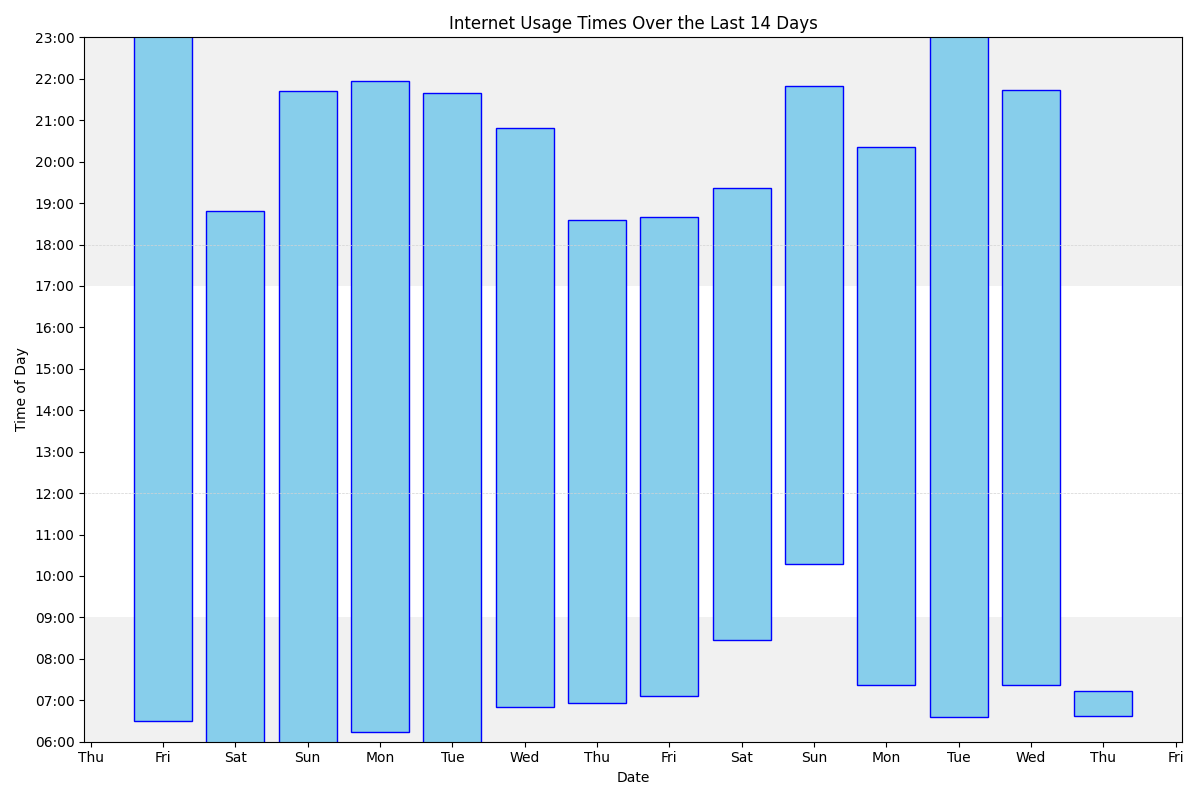
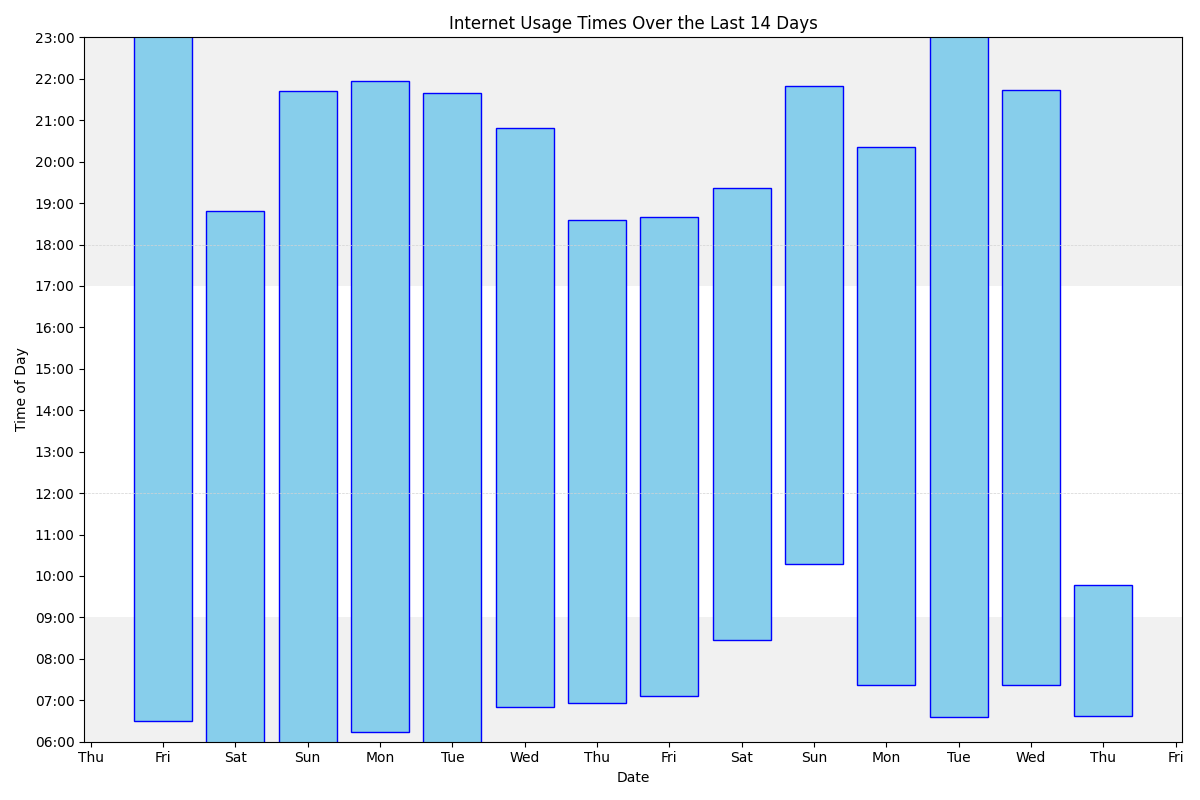
Update

Changed region(s): [[0.8942, 0.7188, 0.9558, 0.875]]

diff --git a/index.md b/index.md
@@ -68,7 +68,7 @@ ul>li::after {
 <h3> Most common sites</h3>
 With number of accesses/minutes in parentheses
 
-<ol><li>www.google.com (3014)</li>
+<ol><li>www.google.com (3015)</li>
 <li>outlook.office.com (2575)</li>
 <li>mail.google.com (2508)</li>
 <li>docs.google.com (1936)</li>
@@ -79,7 +79,7 @@ With number of accesses/minutes in parentheses
 <li>duckduckgo.com (1020)</li>
 <li>www.theguardian.com (827)</li>
 <li>chatgpt.com (717)</li>
-<li>www.amazon.co.uk (715)</li>
+<li>www.amazon.co.uk (716)</li>
 <li>calendar.google.com (495)</li>
 <li>rhul-my.sharepoint.com (472)</li>
 <li>moodle.royalholloway.ac.uk (461)</li>
@@ -105,6 +105,17 @@ With number of accesses/minutes in parentheses
 <ul></ul>
 
 <H3>Thursday, 22/05/25</H3>
+
+<br>
+
+<ul><li> 09:46 www.google.com</li>
+<li> 09:46 www.mentalfloss.com</li>
+</ul>
+
+<br>
+
+<ul><li> 07:55 accounts.intuit.com</li>
+</ul>
 
 <br>
 
@@ -53554,6 +53565,7 @@ With number of accesses/minutes in parentheses
 <br>
 
 <ul><li> 10:13 mail.google.com</li>
+<li> 09:45 www.amazon.co.uk</li>
 </ul>
 
 <br>
